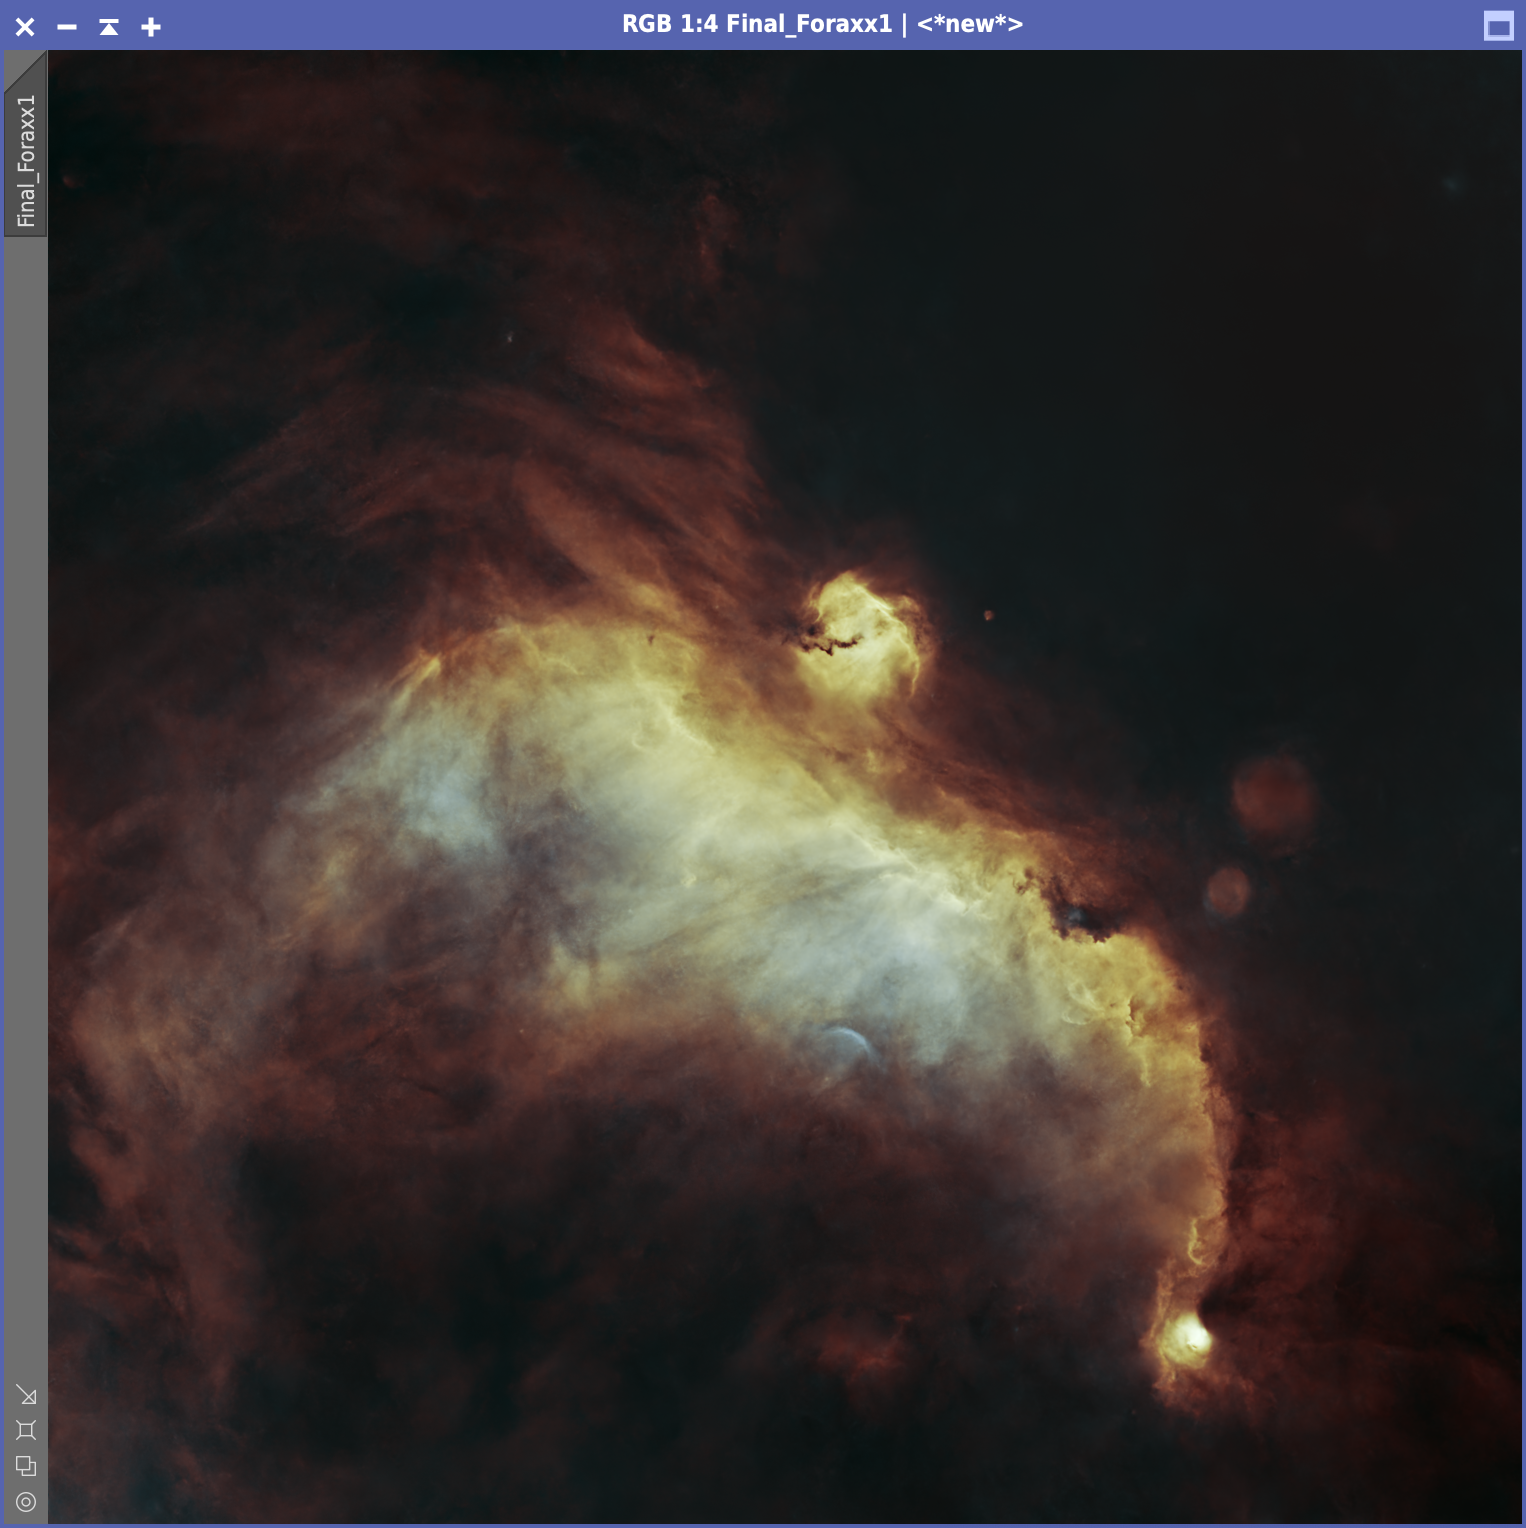
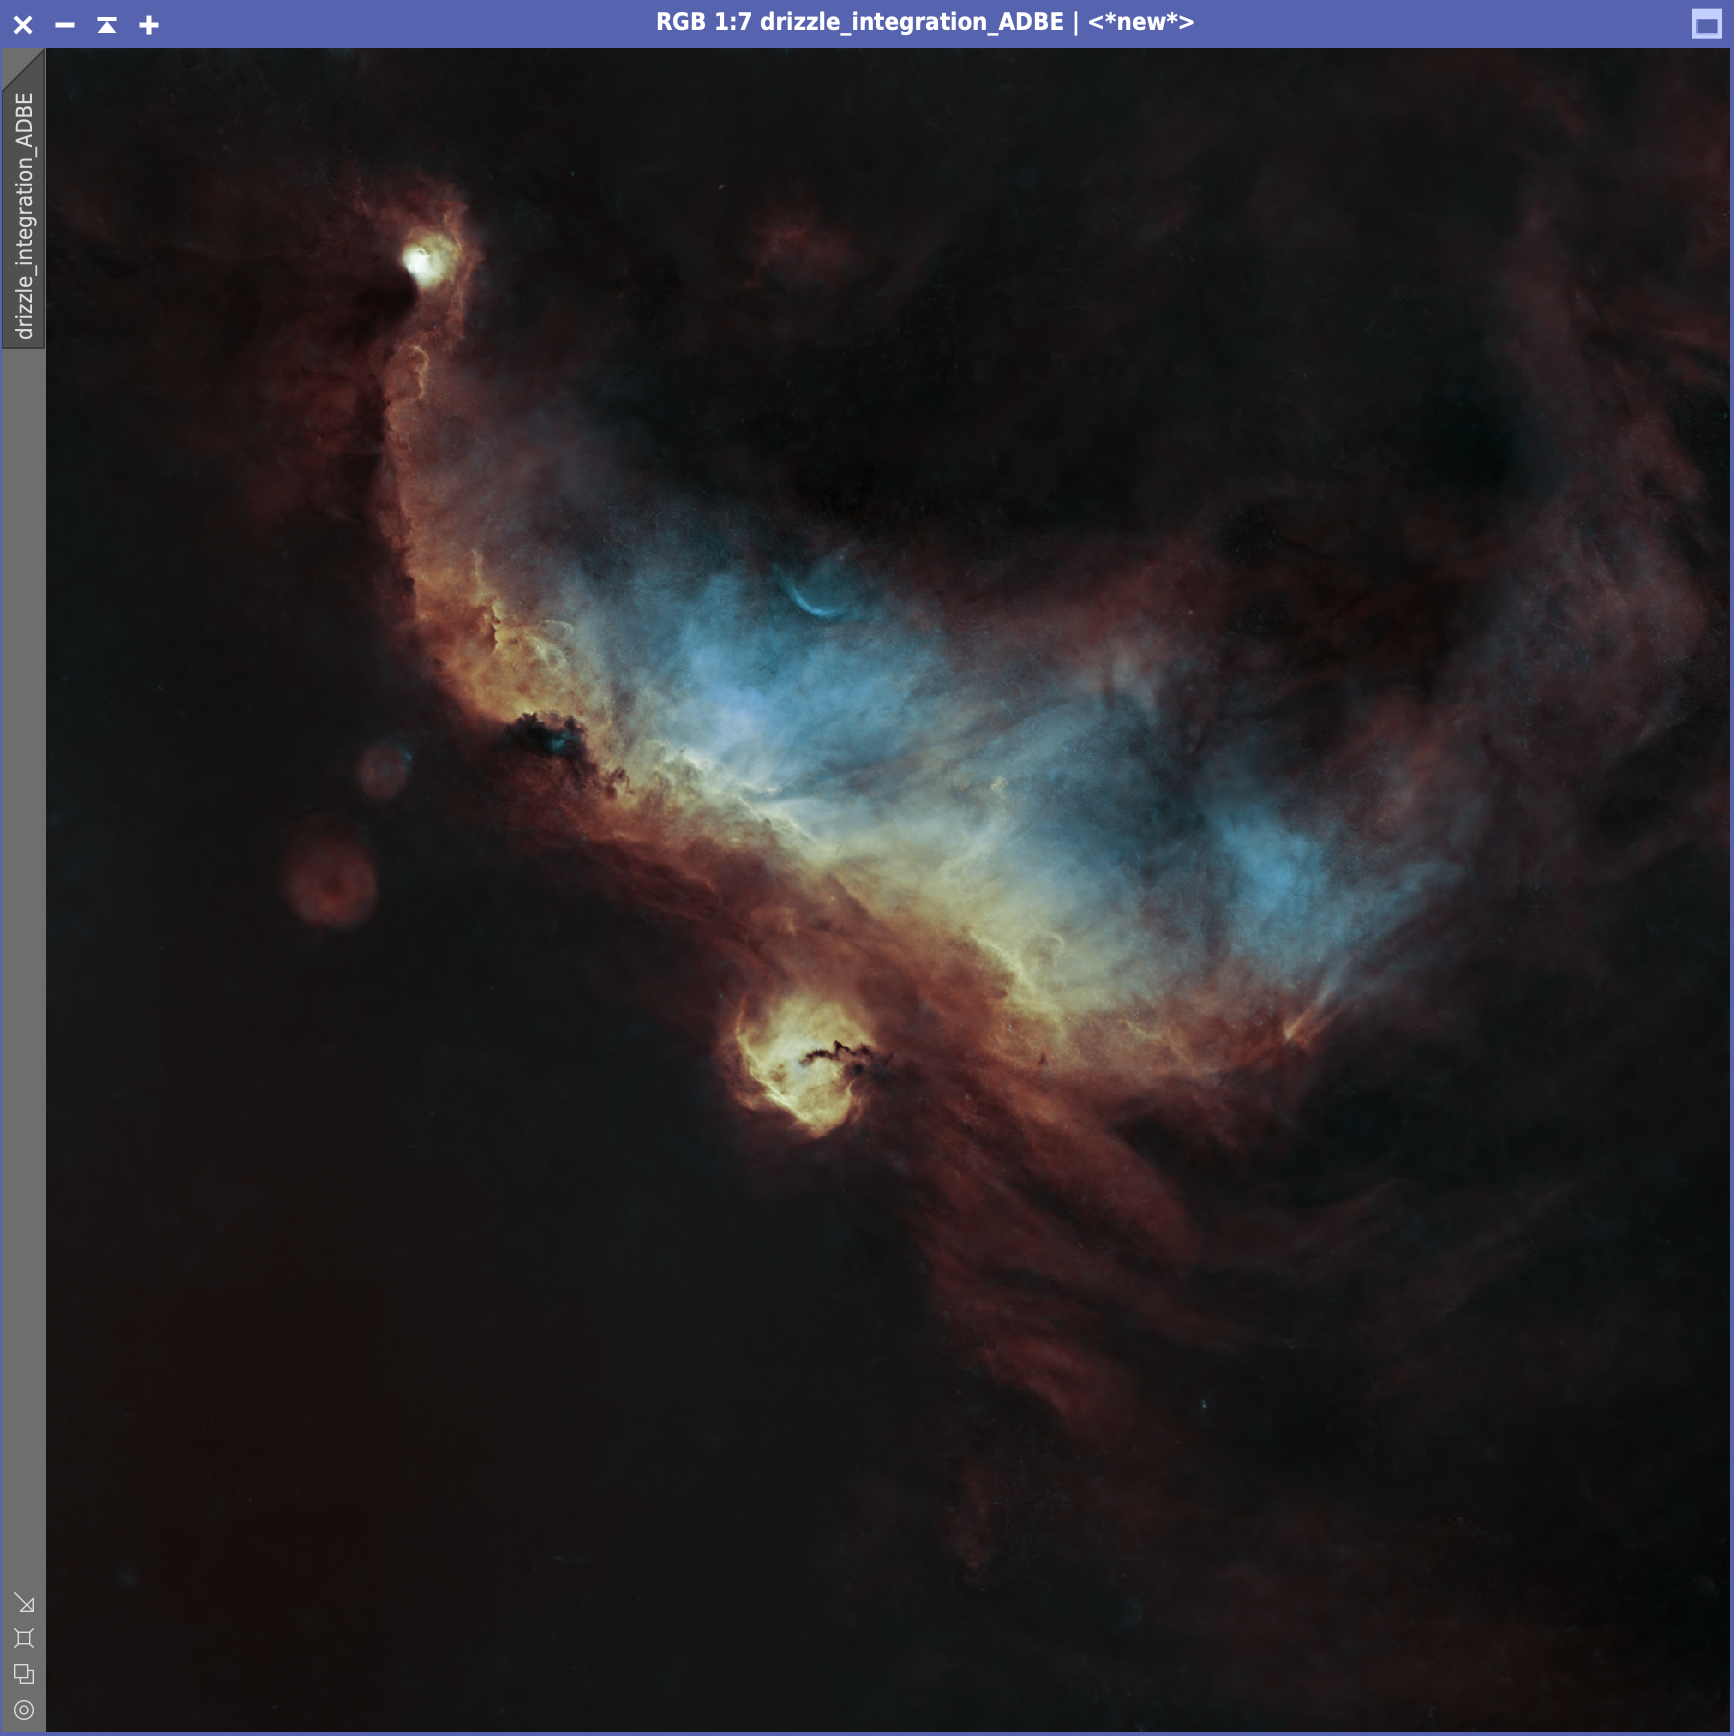
drizzle

diff --git a/seagull-nebula/index.md b/seagull-nebula/index.md
@@ -22,9 +22,10 @@ L-ULTIMATE filter. The session resulted in:
 
 ![Automatic DBE](adbe.png){:.aside .noshadow}
 
-I cropped ~50px around the border to get rid of any stacking artifacts caused by
-dithering. Since the telescope stayed mounted the whole week, the framing was
-exactly the same and there was no need to further crop the image.
+I cropped ~100px around the border of the drizzled image to get rid of any
+stacking artifacts caused by dithering. Since the telescope stayed mounted the
+whole week, the framing was exactly the same and there was no need to further
+crop the image.
 
 The seagull nebula is relatively low at my latitude, which meant that the
 resulting image presented a fairly strong gradient caused by light pollution. I
@@ -32,9 +33,8 @@ found that the **Automatic DBE** script by Seti Astro worked well on this
 target, provided that I excluded all areas containing significant nebulosity.
 
 I then applied [BlurXTerminator] (default settings) to reduce the stars and to
-sharpen the nebulosity a little. I also rotated the image by 180° so that the
-seagull would be flying up, which seemed to be more natural to me. I then used
-[StarXTerminator] to separate the stars from the nebula and applied
+sharpen the nebulosity a little. I then used [StarXTerminator] (with unscreen
+stars deselected) to separate the stars from the nebula and applied
 [NoiseXTerminator] (default settings, denoise = 0.90 and 5 iterations) to the
 nebula to get rid of the background noise.
 
@@ -42,34 +42,28 @@ nebula to get rid of the background noise.
 
 ![Foraxx palette](foraxx.png){:.aside}
 
-Having used a strong dual narrowband filter, I decided to base my stretching on
-the Foraxx palette. I had written a **PixelMath** equation myself to convert an
-RGB image to the Foraxx palette, but that didn't seem to work well for some
-reason. Therefore I used Seti Astro's **Perfect Palette Picker**, I made sure
-that linear input data was selected, and stretched my Hα+OIII image. This script
-yields really good results, but unfortunately it is not possible to control in
-any way the amount of stretching that it performs. In this case, I found that it
-overstretched the image a bit too much, and the background turned out to be too
-bright.
+I used Seti Astro's **Statistical Stretch** (target median = 0.20, unlinked
+stretch) to bring the image to non-linear state. Then I applied **PixelMath** to
+convert the RGB image into the Foraxx palette.
 
 ![stretching](stretching.png){:.aside}
 
-I used **HistogramTransformation** to darken the image and get rid of the
-largely useless pixels below the median. I ended up clipping around 1000 pixels,
-which was not a big issue. Even after that, the background was still too bright,
-therefore I used **GHS** to further darken the image and at the same time add
-some contrast (mode: RGB, stretch factor: 0.860, symmetry point: 0.577825).
+At this point the image was clearly too bright. I used
+**HistogramTransformation** to darken the image and get rid of the largely
+useless pixels below the median. I ended up clipping around 1000 pixels, which
+was not a big issue. After that, I used a gentle **GHS** curve to increase the
+contrast (mode: RGB, stretch factor: 0.860, symmetry point: 0.45).
 
-The picture was looking good, but I was hoping to emphasize the bluish region
-under the wings of the seagull. Therefore I performed two more **GHS** stretches
-on the green and blue channels only. The first one on the blue channel (stretch
-factor: 0.6, local intensity: 0.75, symmetry point: 0.6) and the second one on
-the green channel (stretch factor: 1.120, local intensity: 0, symmetry point:
-0.5, protect highlights: 0.75). It took a **long** time to get these parameters
-right, because colors tend to shift with further processing. Also, after you've
-used **GHS** on one of the individual channels, the color balancing is way off
-and it is not easy to understand whether the stretch is appropriate or not. It
-would be great if **GHS** allowed to preview the effect of multiple stretches on
+The picture was looking good, but I wanted to emphasize the bluish region under
+the wings of the seagull even more. Therefore I performed two more **GHS**
+stretches. The first one on the blue channel only (stretch factor: 0.6, local
+intensity: 0.75, symmetry point: 0.6) and the second one on the green channel
+only (stretch factor: 1.120, local intensity: 0, symmetry point: 0.5, protect
+highlights: 0.75). It took a **long** time to get these parameters right,
+because colors tend to shift with further processing. Also, after you've used
+**GHS** on one of the individual channels, the color balancing is way off and it
+is not easy to understand whether the stretch is appropriate or not. It would be
+great if **GHS** allowed to preview the effect of multiple stretches on
 different channels (like **CurvesTrasformation** does), but I understand that
 the interface would be cumbersome to conceive. After these stretches, I found
 that the image was slightly too bright, so I applied a gentle curve on the
@@ -81,25 +75,25 @@ At this stage I wanted to add a bit of contrast to the image and highlight the
 borders between different strata of nebulosity. I therefore created a blurry
 mask with **RangeSelection** to protect the dark background and then applied
 **LocalHistogramNormalization** (kernel radius: 50, contrast limit: 2, amount:
-0.2). I temporarily disabled the mask to run [NoiseXTerminator] once again, for
-getting rid of the noise that had emerged from the various stretching phases. I
-then re-enabled the mask to increase color saturation with
-**CurvesTransformation**.
-
-Finally, I disabled the mask and ran **BackgroundNeutralization** to remove a
-slight reddish cast that was left on the image. The nebula was done!
+0.2). I increased color saturation with two gentle applications of
+**CurvesTransformation**. I ran [NoiseXTerminator] once again, for getting rid
+of the noise that had emerged from the various stretching phases. Finally, I
+disabled the mask and ran **BackgroundNeutralization** to remove a slight
+reddish cast that was left on the image. The nebula was done!
 
 ## Star stretching and blending
 
 Star processing was easy thanks to Seti Astro's **Star Stretch** script. I made
-sure to enable the removal of green noise and I increased the stretching of
-stars to 5.5 (many of them were really tiny). I then obtained the final image
-using the [ImageBlend] script.
+sure to enable green noise removal and I increased the stretching of stars to
+5.5 (many of them were really tiny). I then merged the nebual and the stars
+using the [ImageBlend] script and I finished the image by rotating the belnd by
+180°, so that the seagull would be flying up.
 
-In order to annotate the image I had to plate solve it first, using [IC
-2177](https://en.wikipedia.org/wiki/IC_2177) as reference object, 178mm for
-focal length and 3.76μm for pixel size. I particularly like the bluish,
-ark-shaped reflection nebula **VdB95**.
+In order to annotate the image I rescaled it down by 2 with **IntegerResample**,
+plate solved it using [IC 2177](https://en.wikipedia.org/wiki/IC_2177) as
+reference object, 178mm for focal length and 3.76μm for pixel size, and then
+used the **AnnotateImage** script. I particularly like the bluish, ark-shaped
+reflection nebula **VdB95**.
 
 ![final annotated](final_annotated.png)
 
